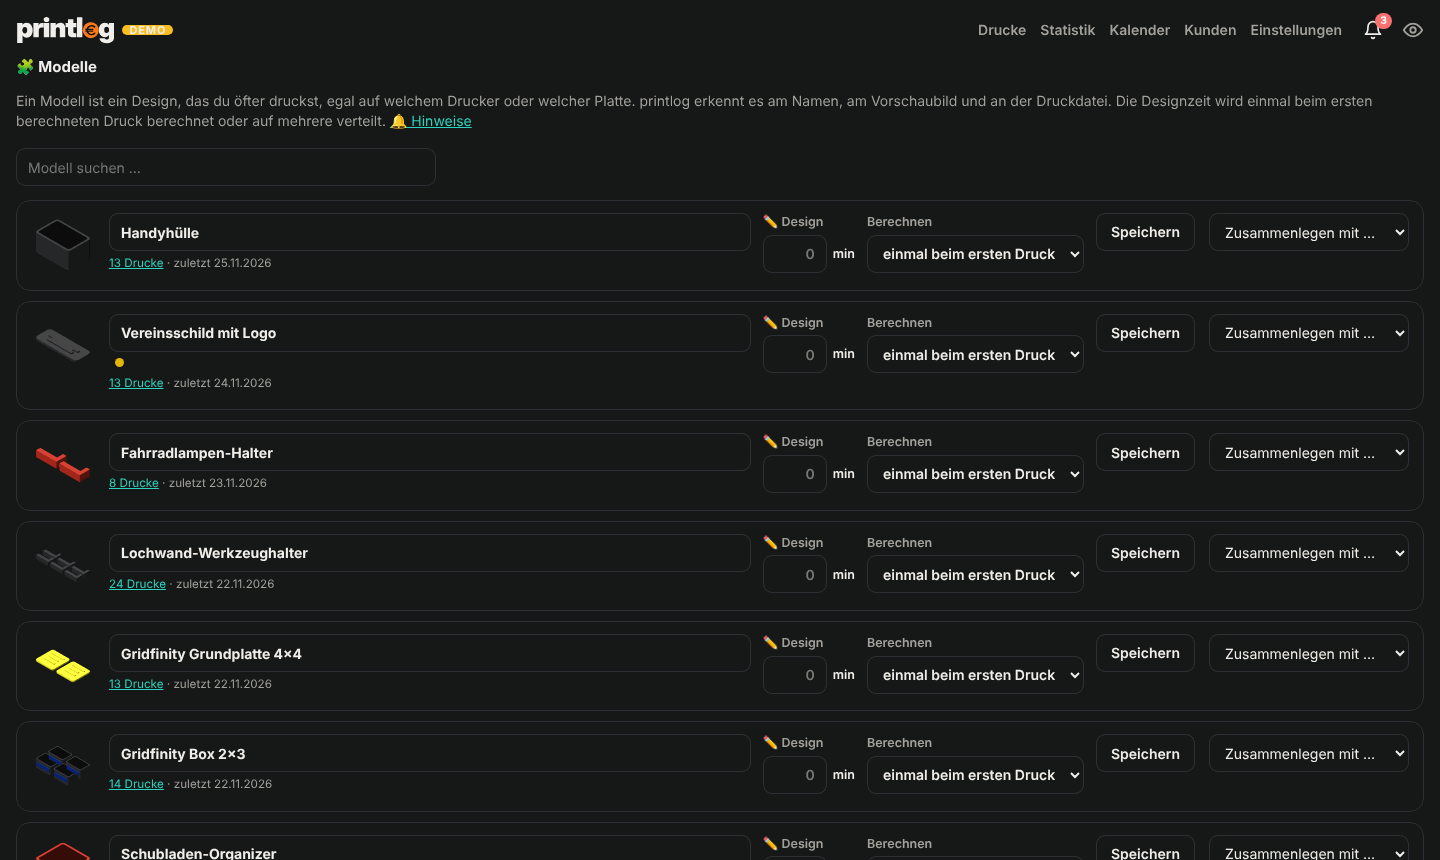
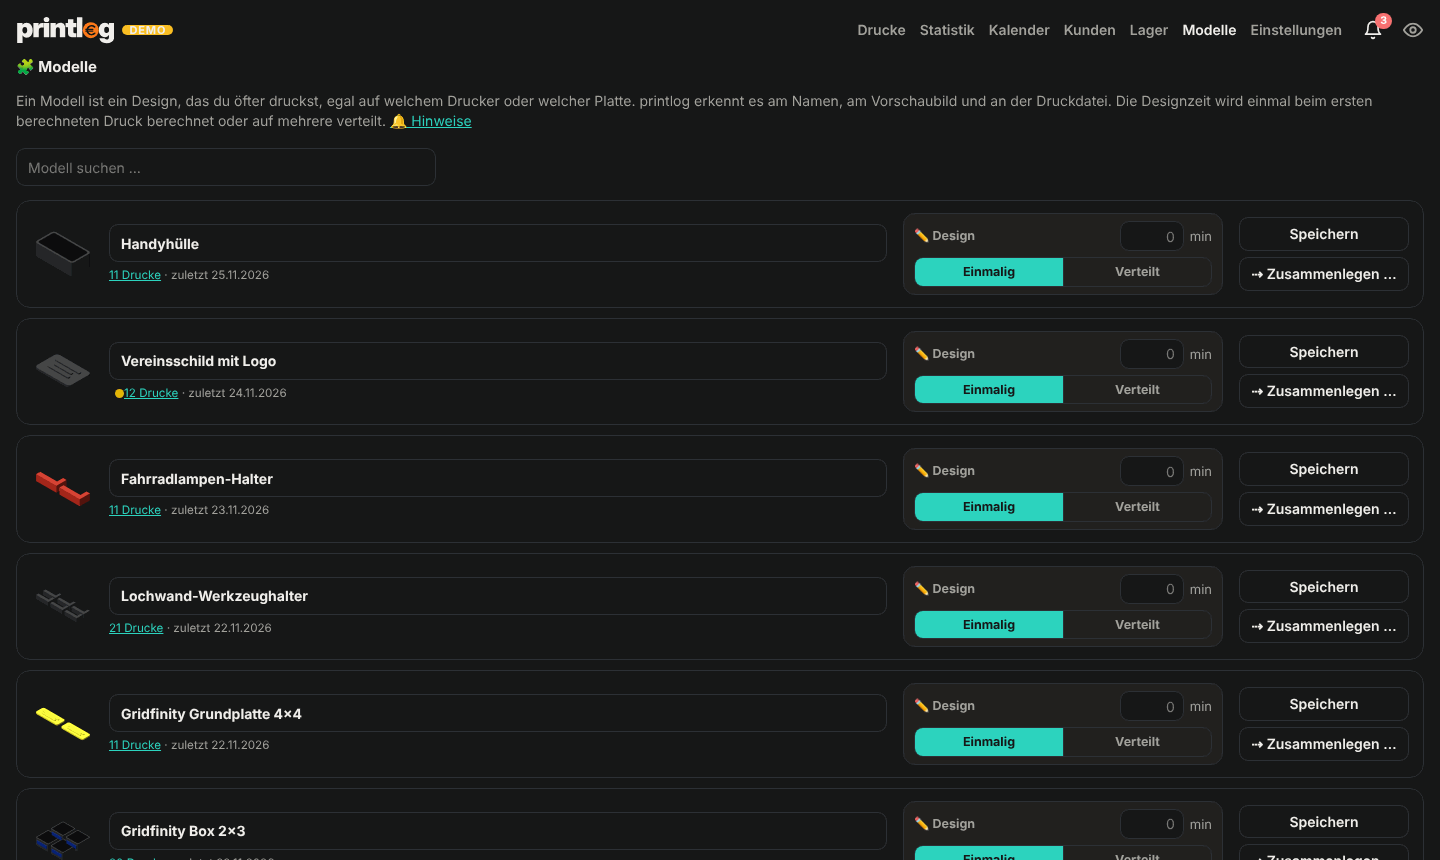
Modelle-Seite: Design mit Umschalter Einmalig/Verteilt, Zusammenlegen mit Suchfeld
Zeilen ordentlich ausgerichtet: Name links, Designkasten (Minuten und
Umschalter, bei „Verteilt“ die Anzahl Drucke daneben), rechts Speichern
(leuchtet bei Änderungen) und „Zusammenlegen …“. Das Zusammenlegen öffnet
ein Auswahlfenster mit Suche, Bild und Anzahl Drucke statt einer langen
Auswahlliste.

Claude-Session: https://claude.ai/code/session_016QS8kLCpfAFka2Kzu3XCw3

diff --git a/app/models.py b/app/models.py
@@ -587,10 +587,10 @@ def page_models(store: Store, q: str | None = None) -> str:
     aliases: dict[int, list[str]] = {}
     for r in store._conn.execute("SELECT * FROM model_aliases ORDER BY alias"):
         aliases.setdefault(r["model_id"], []).append(r["alias"])
+    all_rows = sorted(rows, key=lambda r: r["name"].casefold())
     if q:
         qn = normalize(q)
         rows = [r for r in rows if qn in normalize(r["name"]) or any(qn in a for a in aliases.get(r["id"], []))]
-    allm = sorted(((r["id"], r["name"]) for r in rows), key=lambda x: x[1].casefold())
     items = ""
     for r in rows:
         mid = r["id"]
@@ -598,29 +598,76 @@ def page_models(store: Store, q: str | None = None) -> str:
         al = "".join(f'<form method="post" action="{act}" class="al"><input type="hidden" name="unalias" value="{e(a)}">'
                      f'<span>{e(a)}</span><button title="{e(t("Alias entfernen"))}">×</button></form>' for a in aliases.get(mid, []))
         spread = r.get("design_mode") == "spread"
-        merge_opts = "".join(f'<option value="{i}">{e(n)}</option>' for i, n in allm if i != mid)
         dot_ = f' <a class="mdot y" href="hints" title="{e(t("offene Hinweise"))}"></a>' if r.get("open") else ""
+        dm = fmt_input(r.get("design_min")) if r.get("design_min") else ""
         items += (
-            f'<div class="mdrow" id="m{mid}"><div class="mimg">{_img(r)}</div>'
+            f'<div class="mdrow" id="m{mid}" data-n="{e(r["name"].casefold())}"><div class="mimg">{_img(r)}</div>'
             f'<form method="post" action="{act}" class="mdf"><div class="mdname"><input name="name" value="{e(r["name"])}" maxlength="120" aria-label="{e(t("Name"))}">'
             f'<small class="muted">{dot_.strip()}<a href="./?model={mid}">{e(t("{n} Drucke", n=r["n"]))}</a>'
             + (f' · {e(t("zuletzt {d}", d=fmt_date(r["last"])))}' if r.get("last") else "") + f'</small>'
             f'<div class="als">{al}</div></div>'
-            f'<label class="mdes">✏ {e(t("Design"))}<span><input class="num" name="design_min" value="{fmt_input(r.get("design_min")) if r.get("design_min") else ""}" inputmode="decimal" placeholder="0"> min</span></label>'
-            f'<label class="mmode">{e(t("Berechnen"))}<select name="design_mode"><option value="first">{e(t("einmal beim ersten Druck"))}</option>'
-            f'<option value="spread"{" selected" if spread else ""}>{e(t("verteilt auf"))}</option></select>'
-            f'<span class="spn"{"" if spread else " hidden"}><input class="num" name="spread_n" value="{r.get("spread_n") or 3}" inputmode="numeric"> {e(t("Drucke"))}</span></label>'
-            f'<button class="btn">{e(t("Speichern"))}</button></form>'
-            f'<form method="post" action="{act}" class="mmerge"><select name="merge" onchange="if(this.value&&confirm(this.dataset.q))this.form.requestSubmit()" data-q="{e(t("Zusammenlegen? Drucke und Namen wandern in das gewählte Modell."))}">'
-            f'<option value="">{e(t("Zusammenlegen mit …"))}</option>{merge_opts}</select></form></div>')
+            f'<div class="mdbox"><label class="mdes"><span class="lb">✏ {e(t("Design"))}</span>'
+            f'<span class="mv"><input class="num" name="design_min" value="{dm}" inputmode="decimal" placeholder="0"> min</span></label>'
+            f'<div class="mr2"><div class="mseg" role="radiogroup" aria-label="{e(t("Berechnen"))}">'
+            f'<label title="{e(t("beim ersten berechneten Druck"))}"><input type="radio" name="design_mode" value="first"{"" if spread else " checked"}><span>{e(t("Einmalig"))}</span></label>'
+            f'<label><input type="radio" name="design_mode" value="spread"{" checked" if spread else ""}><span>{e(t("Verteilt"))}</span></label></div>'
+            f'<span class="spn"{"" if spread else " hidden"}>{e(t("auf"))} <input class="num" name="spread_n" value="{r.get("spread_n") or 3}" inputmode="numeric"> {e(t("Drucke"))}</span></div></div>'
+            f'<div class="mact"><button class="btn msave">{e(t("Speichern"))}</button>'
+            f'<button type="button" class="btn mmb" data-id="{mid}" data-name="{e(r["name"])}">⇢ {e(t("Zusammenlegen …"))}</button></div></form></div>')
+    data = json.dumps([{"id": r["id"], "name": r["name"], "n": r["n"], "img": r.get("image") or ""} for r in all_rows],
+                      ensure_ascii=False).replace("</", "<\\/")
     if not items:
         items = f'<p class="muted">{e(t("Noch keine Modelle. Sie entstehen automatisch, sobald ein Druck fertig ist."))}</p>'
     intro = e(t("Ein Modell ist ein Design, das du öfter druckst, egal auf welchem Drucker oder welcher Platte. printlog erkennt es am Namen, am Vorschaubild und an der Druckdatei. Die Designzeit wird einmal beim ersten berechneten Druck berechnet oder auf mehrere verteilt."))
     search = (f'<form class="msrch" method="get"><input type="search" name="q" value="{e(q or "")}" placeholder="{e(t("Modell suchen …"))}"></form>')
-    js = ("document.querySelectorAll('.mmode select').forEach(s=>s.onchange=()=>{s.parentElement.querySelector('.spn').hidden=s.value!=='spread'});"
-          "if(location.hash){const el=document.querySelector(location.hash);if(el)el.classList.add('mdhl')}")
-    body = f'<h2 style="margin-top:4px">🧩 {e(t("Modelle"))}</h2><p class="muted">{intro} <a href="hints">🔔 {e(t("Hinweise"))}</a></p>{search}<div class="ml">{items}</div>'
+    js = MODELS_JS.replace("%Q%", json.dumps(t("„{a}“ mit „{b}“ zusammenlegen? Drucke und Namen wandern in „{b}“.")))
+    merge_dlg = (f'<script type="application/json" id="mdata">{data}</script>'
+                 f'<div id="mmpop" class="mmpop" hidden role="dialog"><div class="hd"></div>'
+                 f'<label class="srch">🔍<input type="search" autocomplete="off" placeholder="{e(t("Modell suchen …"))}"></label>'
+                 f'<div class="lst"></div><form method="post" class="mmf"><input type="hidden" name="merge"></form></div><div id="mmbg" class="mmbg" hidden></div>')
+    body = (f'<h2 style="margin-top:4px">🧩 {e(t("Modelle"))}</h2><p class="muted">{intro} <a href="hints">🔔 {e(t("Hinweise"))}</a></p>'
+            f'{search}<div class="ml">{items}</div>{merge_dlg}')
     return layout(t("Modelle"), "models", f'<style>{CSS}</style>{body}', js)
+
+
+MODELS_JS = r"""
+// Design: Umschalter einmalig / verteilt; Speichern hervorheben, sobald etwas geändert ist
+document.querySelectorAll('.mdf').forEach(f=>{
+  const sync=()=>{const sp=f.querySelector('input[name=design_mode][value=spread]').checked;
+    f.querySelector('.mr2 .spn').hidden=!sp};
+  f.addEventListener('change',()=>{sync();f.classList.add('dirty')});f.addEventListener('input',()=>f.classList.add('dirty'))});
+if(location.hash){const el=document.querySelector(location.hash);if(el)el.classList.add('mdhl')}
+// Zusammenlegen: Auswahl mit Suche
+(()=>{let all=[];try{all=JSON.parse(document.getElementById('mdata').textContent)}catch(_){}
+  const pop=document.getElementById('mmpop'),bg=document.getElementById('mmbg');if(!pop)return;
+  const q=pop.querySelector('input[type=search]'),lst=pop.querySelector('.lst'),f=pop.querySelector('.mmf');
+  let src=null,anchor=null;const norm=x=>x.toLowerCase().normalize('NFD').replace(/[\u0300-\u036f]/g,'');
+  function render(){lst.textContent='';const term=norm(q.value.trim());let i=0;
+    all.filter(m=>m.id!==+src.id&&(!term||norm(m.name).includes(term))).forEach(m=>{
+      const b=document.createElement('button');b.type='button';b.className='it'+(i++===0&&term?' hl':'');
+      const im=document.createElement(m.img?'img':'span');if(m.img){im.src='images/'+m.img;im.loading='lazy'}else im.className='ph';
+      const n=document.createElement('span');n.className='n';n.textContent=m.name;
+      const s=document.createElement('small');s.textContent=_t("{n} Drucke").replace('{n}',m.n);
+      b.append(im,n,s);b.onclick=()=>pick(m);lst.append(b)});
+    if(!lst.children.length){const d=document.createElement('div');d.className='none';d.textContent=_t("Kein passendes Modell.");lst.append(d)}}
+  function place(){if(innerWidth<=700){pop.style.left='';pop.style.top='';return}
+    const r=anchor.getBoundingClientRect(),w=pop.offsetWidth,h=pop.offsetHeight;
+    let left=Math.min(Math.max(8,r.right-w),innerWidth-w-8),top=r.bottom+8;
+    if(top+h>innerHeight-8&&r.top-h-8>8)top=r.top-h-8;
+    pop.style.left=(left+scrollX)+'px';pop.style.top=(top+scrollY)+'px'}
+  function open(b){anchor=b;src={id:b.dataset.id,name:b.dataset.name};
+    const hd=pop.querySelector('.hd');hd.textContent='';const x=document.createElement('b');x.textContent=src.name;
+    hd.append(x,' '+_t("zusammenlegen mit …"));
+    q.value='';render();pop.hidden=false;bg.hidden=false;place();if(matchMedia('(pointer:fine)').matches)q.focus()}
+  function close(){pop.hidden=true;bg.hidden=true}
+  function pick(m){if(!confirm(%Q%.replaceAll('{a}',src.name).replaceAll('{b}',m.name)))return;
+    f.action='api/models/'+src.id;f.querySelector('input').value=m.id;f.submit()}
+  document.querySelectorAll('.mmb').forEach(b=>b.onclick=()=>open(b));
+  q.addEventListener('input',render);
+  q.addEventListener('keydown',ev=>{if(ev.key==='Enter'){ev.preventDefault();const b=lst.querySelector('.it.hl')||lst.querySelector('.it');if(b)b.click()}});
+  bg.onclick=close;document.addEventListener('keydown',ev=>{if(ev.key==='Escape')close()});
+  addEventListener('resize',()=>{if(!pop.hidden)place()})})();
+"""
 
 
 def notify_text(hints: list[str]) -> str:
@@ -646,19 +693,44 @@ CSS = """
 .lowl li{display:flex;gap:12px;align-items:center;padding:8px 0;border-bottom:1px solid var(--line);flex-wrap:wrap}
 .msrch input{width:100%;max-width:420px;margin:4px 0 14px}
 .ml{display:flex;flex-direction:column;gap:10px}
-.mdrow{display:grid;grid-template-columns:64px minmax(0,1fr) 200px;gap:14px;align-items:start;background:var(--card);border:1px solid var(--line);
+.mdrow{display:grid;grid-template-columns:64px minmax(0,1fr);gap:14px;align-items:center;background:var(--card);border:1px solid var(--line);
  border-radius:14px;padding:12px 14px}
 .mdrow.mdhl{box-shadow:0 0 0 2px var(--accent)}
 .mimg img,.mimg .ph{width:64px;height:64px;border-radius:10px;object-fit:cover;display:block;background:var(--bg)}
-.mdf{display:grid;grid-template-columns:minmax(0,1fr) auto auto auto;gap:12px;align-items:start;margin:0}
-.mdname input{font-weight:700;width:100%;box-sizing:border-box}.mdname small{display:block;margin-top:4px}
-.als{display:flex;flex-wrap:wrap;gap:4px;margin-top:6px}
+.mdf{display:grid;grid-template-columns:minmax(0,1fr) 320px 170px;gap:16px;align-items:center;margin:0}
+.mdname input{font-weight:700;width:100%;box-sizing:border-box}.mdname small{display:block;margin-top:5px}
+.als{display:flex;flex-wrap:wrap;gap:4px;margin-top:6px}.als:empty{display:none}
 .al{display:inline-flex;align-items:center;gap:2px;border:1px solid var(--line);border-radius:999px;padding:0 2px 0 9px;font-size:12px;color:var(--muted);margin:0}
 .al button{border:0;background:none;color:var(--muted);cursor:pointer;padding:2px 6px;min-height:0}
-.mdes,.mmode{display:flex;flex-direction:column;gap:4px;font-size:12.5px;color:var(--muted);font-weight:600}
-.mdes span,.mmode .spn{display:flex;align-items:center;gap:6px;color:var(--fg)}.mdes input,.mmode input{width:64px;text-align:right}
-.mmerge select{width:100%}.mmode .spn[hidden]{display:none}
+.mdbox{display:flex;flex-direction:column;gap:6px;border:1px solid var(--line);border-radius:12px;padding:7px 10px;background:color-mix(in srgb,var(--fg) 3%,transparent)}
+.mdes{display:flex;align-items:center;justify-content:space-between;gap:10px}.mdes .lb{font-size:12.5px;color:var(--muted);font-weight:700;white-space:nowrap}
+.mdes .mv{display:flex;align-items:center;gap:6px;font-size:13px;color:var(--muted)}.mdes input{width:64px;text-align:right;padding:4px 8px;min-height:0;height:30px}
+.mr2{display:flex;align-items:center;gap:8px}
+.mseg{flex:1;display:grid;grid-template-columns:1fr 1fr;border:1px solid var(--line);border-radius:9px;overflow:hidden;min-width:150px}
+.mseg label{position:relative;cursor:pointer}.mseg input{position:absolute;opacity:0;pointer-events:none}
+.mseg span{display:block;text-align:center;padding:5px 8px;font-size:12.5px;font-weight:700;color:var(--muted)}
+.mseg label+label span{border-left:1px solid var(--line)}
+.mseg input:checked+span{background:var(--accent);color:var(--bg)}.mseg input:focus-visible+span{outline:2px solid var(--accent);outline-offset:-2px}
+.mr2 .spn{display:flex;align-items:center;gap:5px;font-size:12.5px;color:var(--muted);white-space:nowrap}.mr2 .spn[hidden]{display:none}
+.mr2 .spn input{width:44px;text-align:right;padding:4px 6px;min-height:0;height:28px}
+.mact{display:flex;flex-direction:column;gap:6px}.mact .btn{min-height:0;padding:6px 10px}.mact .btn{width:100%;justify-content:center}
+.mdf.dirty .msave{background:var(--accent);color:var(--bg);border-color:var(--accent)}
+.mmpop{position:absolute;z-index:70;width:360px;max-width:calc(100vw - 16px);background:var(--card);border:1px solid var(--line);border-radius:16px;
+ box-shadow:0 24px 70px rgba(0,0,0,.45);padding:12px;font-size:14px;display:flex;flex-direction:column}
+.mmpop[hidden],.mmbg[hidden]{display:none}.mmbg{position:fixed;inset:0;z-index:69;background:transparent}
+.mmpop .hd{font-size:12.5px;color:var(--muted);margin:0 4px 8px}.mmpop .hd b{color:var(--fg);margin-right:4px}
+.mmpop .srch{display:flex;align-items:center;gap:8px;border:1px solid var(--line);border-radius:11px;padding:0 12px;background:var(--bg);margin-bottom:6px}
+.mmpop .srch:focus-within{border-color:var(--accent)}.mmpop .srch input{flex:1;border:0;background:transparent;color:var(--fg);font:inherit;padding:10px 0;outline:0;min-width:0}
+.mmpop .lst{overflow:auto;max-height:min(380px,55vh);overscroll-behavior:contain}
+.mmpop .it{display:flex;align-items:center;gap:10px;padding:7px 8px;border-radius:10px;width:100%;border:0;background:none;color:var(--fg);font:inherit;font-weight:600;text-align:left;cursor:pointer}
+.mmpop .it:hover,.mmpop .it.hl{background:color-mix(in srgb,var(--fg) 7%,transparent)}
+.mmpop .it img,.mmpop .it .ph{width:34px;height:34px;border-radius:8px;object-fit:cover;background:var(--bg);flex:none}
+.mmpop .it .n{overflow:hidden;text-overflow:ellipsis;white-space:nowrap}.mmpop .it small{margin-left:auto;color:var(--muted);font-weight:500;font-size:12px;white-space:nowrap;padding-left:8px}
+.mmpop .none{color:var(--muted);padding:10px 8px}.mmf{display:none}
+@media (max-width:1100px){.mdf{grid-template-columns:minmax(0,1fr) 280px}.mact{grid-column:1/-1;flex-direction:row}}
 @media (max-width:760px){.mhint{flex-direction:column}.mhj{width:auto}
- .mdrow{grid-template-columns:52px minmax(0,1fr)}.mimg img,.mimg .ph{width:52px;height:52px}.mmerge{grid-column:1/-1}
- .mdf{grid-template-columns:minmax(0,1fr) minmax(0,1fr)}.mmode select{width:100%;min-width:0}.mdf>*{min-width:0}.mdf .mdname{grid-column:1/-1}.mdf .btn{grid-column:1/-1}}
+ .mdrow{grid-template-columns:52px minmax(0,1fr);align-items:start}.mimg img,.mimg .ph{width:52px;height:52px}
+ .mdf{grid-template-columns:minmax(0,1fr)}.mdf>*{min-width:0}
+ .mmpop{position:fixed;left:0!important;right:0;bottom:0;top:auto!important;width:auto;max-width:none;border-radius:22px 22px 0 0;padding:10px 16px calc(18px + env(safe-area-inset-bottom))}
+ .mmbg{background:rgba(0,0,0,.55)}}
 """

diff --git a/app/i18n_en.py b/app/i18n_en.py
@@ -1180,4 +1180,12 @@ EN: dict[str, str] = {
     'Alle Gruppen': 'All groups',
     'Alle Orte': 'All locations',
     '{n} Zubehör': '{n} accessories',
+    'Einmalig': 'Once',
+    'Verteilt': 'Spread',
+    'beim ersten berechneten Druck': 'on the first billed print',
+    'auf': 'over',
+    'Zusammenlegen …': 'Merge …',
+    'zusammenlegen mit …': 'merge with …',
+    'Kein passendes Modell.': 'No matching model.',
+    '„{a}“ mit „{b}“ zusammenlegen? Drucke und Namen wandern in „{b}“.': 'Merge “{a}” into “{b}”? Prints and names move to “{b}”.',
 }

diff --git a/README.md b/README.md
@@ -78,7 +78,8 @@ in a **light and a dark** colour scheme (Settings → View → Colour scheme, or
   automatically; 60–84 it assigns it tentatively and asks; 35–59 it only suggests one; below that it creates a new model.
   If two models fit almost equally well, it always asks. Your answers are remembered: a confirmed name becomes an alias,
   a rejected pair is never suggested again. The **Models** page (top menu) lists every model with its prints and lets you rename,
-  merge and remove aliases. On the first start the existing history is sorted into models silently, without questions.
+  merge (pick the target in a searchable list) and remove aliases; design time is set per model with a switch
+  **Once / Spread** (over N prints). On the first start the existing history is sorted into models silently, without questions.
 - **Notices** – a 🔔 bell at the top counts open questions (prints to check, accessories to restock). The **Notices** page
   answers them in one tap (*Yes, model X* / *Other model …* / *New model*); the list shows a coloured dot on such prints
   and the print page a banner. Optionally printlog also sends a Home Assistant notification (*Settings → View*).
@@ -475,7 +476,8 @@ in **hell und dunkel** (Einstellungen → Ansicht → Farbschema, oder automatis
   ordnet es automatisch zu, bei 60–84 vorläufig mit Nachfrage, bei 35–59 macht es nur einen Vorschlag, darunter legt es ein
   neues Modell an. Passen zwei Modelle fast gleich gut, fragt es immer. Deine Antworten merkt es sich: ein bestätigter Name
   wird Alias, ein abgelehntes Paar wird nie wieder vorgeschlagen. Die Seite **Modelle** (Menü oben) zeigt alle Modelle mit ihren Drucken;
-  dort lassen sie sich umbenennen, zusammenlegen und Aliase entfernen. Beim ersten Start sortiert printlog die vorhandene
+  dort lassen sie sich umbenennen, zusammenlegen (Ziel in einer Liste mit Suchfeld wählen) und Aliase entfernen; die
+  Designzeit stellst du pro Modell mit dem Umschalter **Einmalig / Verteilt** (auf N Drucke) ein. Beim ersten Start sortiert printlog die vorhandene
   Historie still in Modelle ein, ohne Rückfragen.
 - **Hinweise** – eine 🔔 Glocke oben zählt offene Fragen (Drucke prüfen, Zubehör nachkaufen). Auf der Seite **Hinweise**
   beantwortest du sie mit einem Tipp (*Ja, Modell X* / *Anderes Modell …* / *Neues Modell*); die Liste zeigt bei solchen
